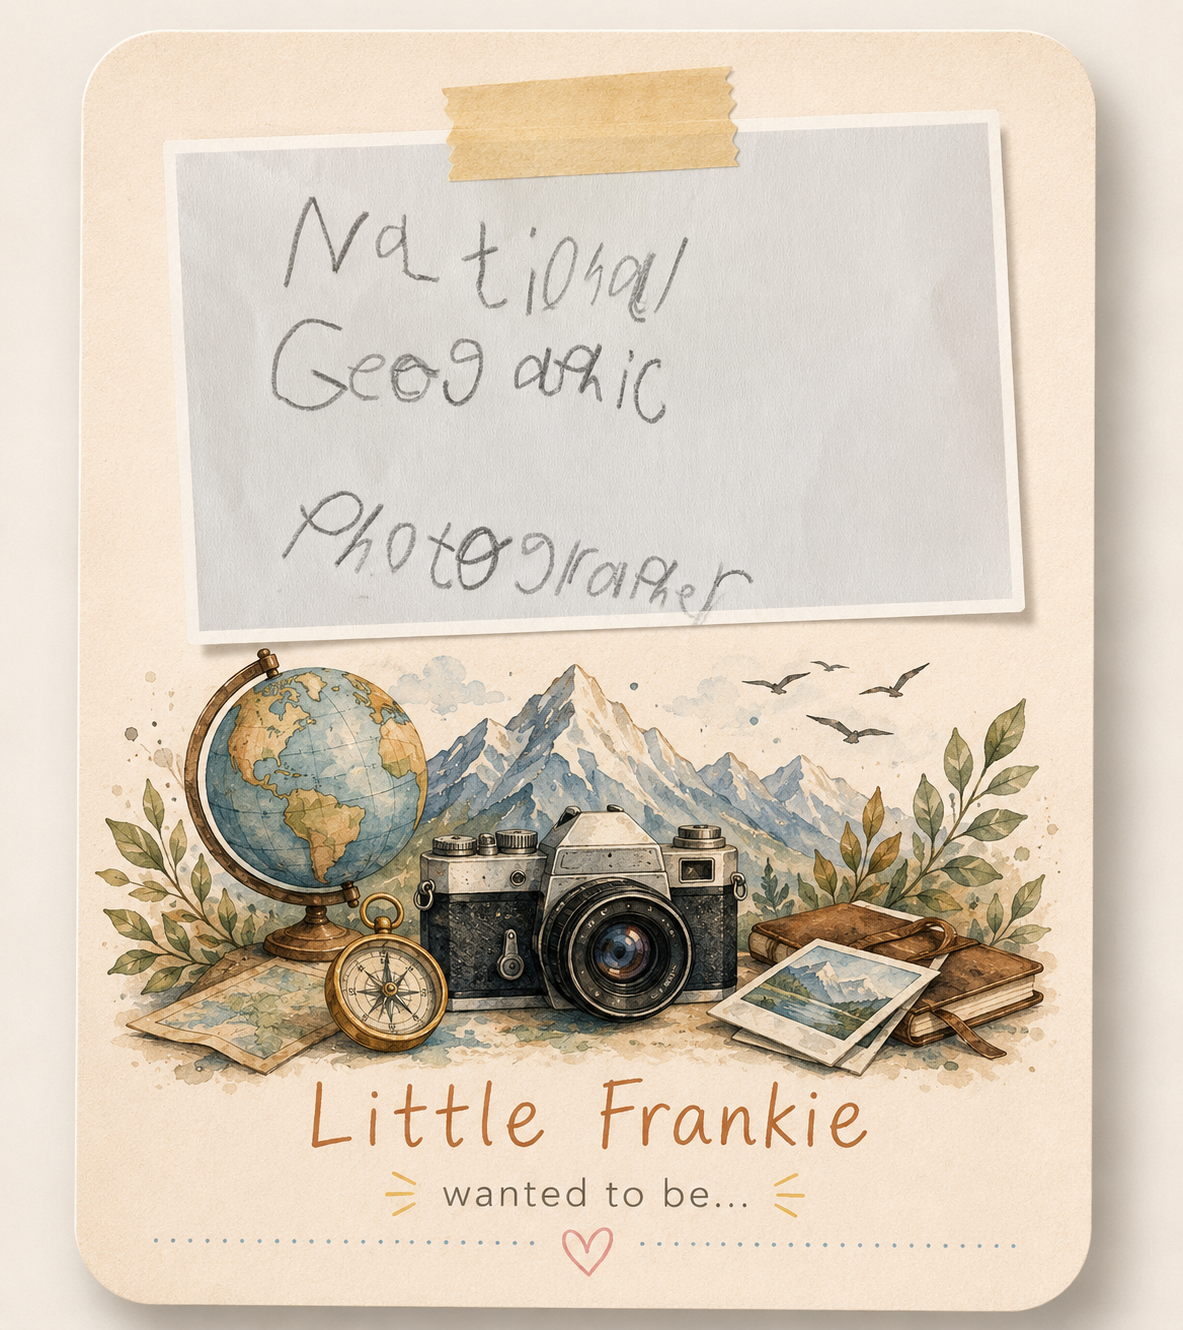
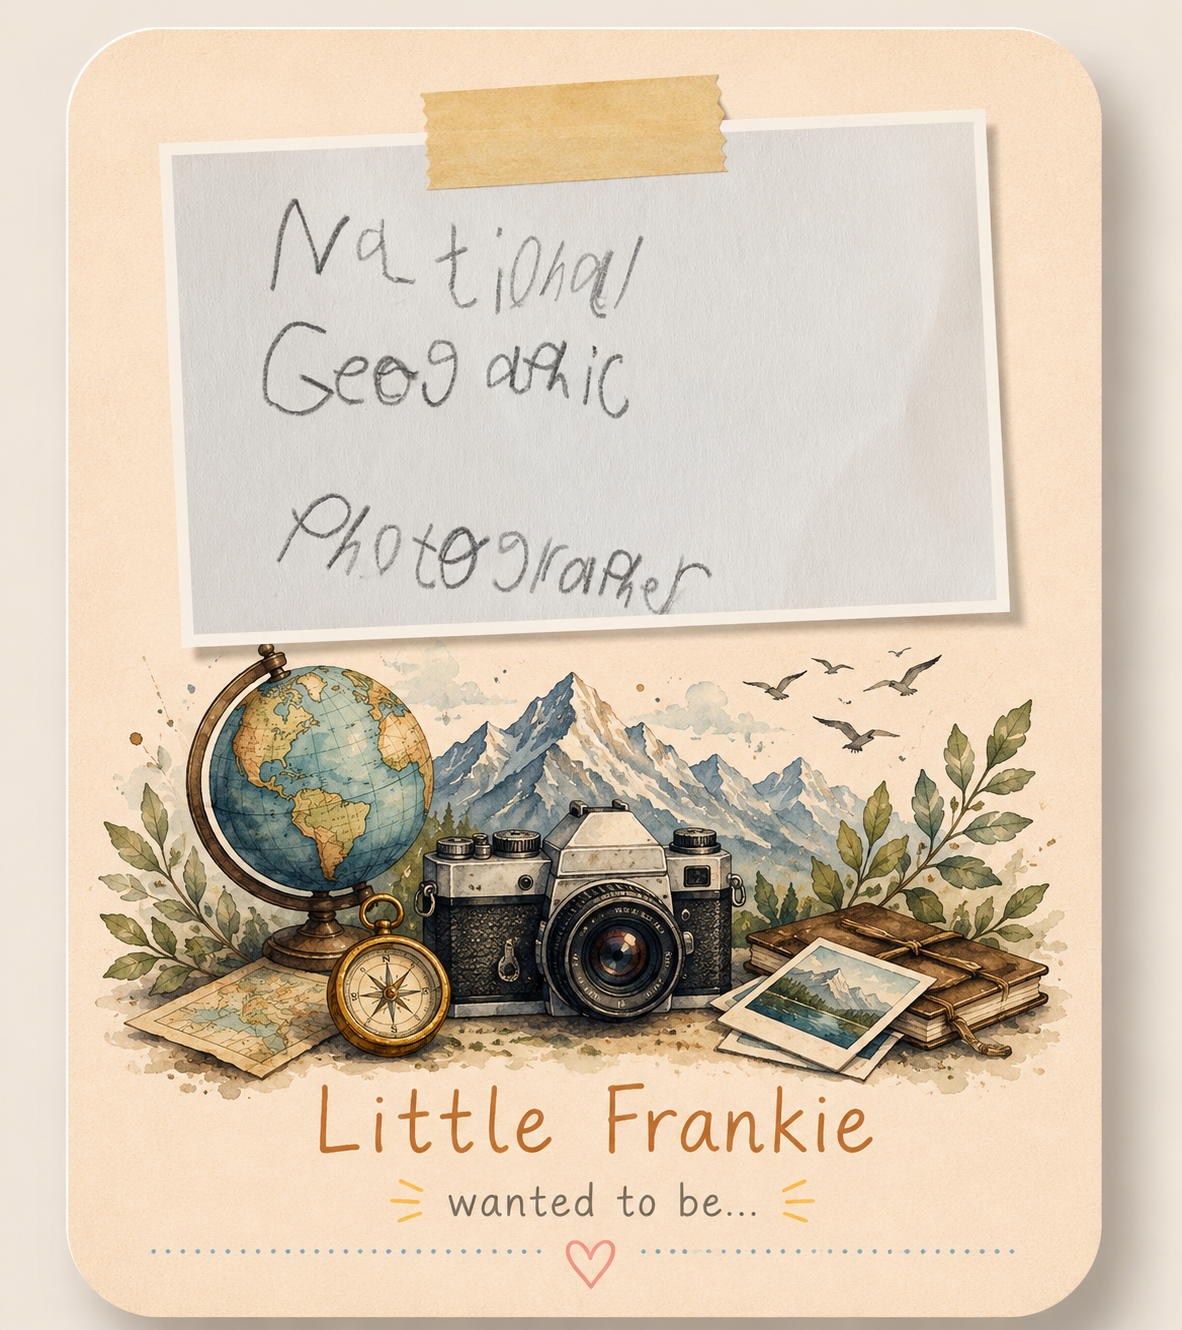
fix(scrapbook): uniform card styling with consistent aspect ratio and no height:auto override

diff --git a/src/components/story/FrankieStory.jsx b/src/components/story/FrankieStory.jsx
@@ -52,6 +52,7 @@ function NarrativeBlock({ block, index }) {
 
 /**
  * ScrapbookCard — tilted, playful image card for childhood dreams
+ * Shows each illustration at its natural proportions (no forced cropping).
  */
 function ScrapbookCard({ image, dream, index }) {
   const ref = useRef(null)
@@ -62,7 +63,7 @@ function ScrapbookCard({ image, dream, index }) {
   return (
     <motion.div
       ref={ref}
-      className="rounded-xl overflow-hidden shadow-md cursor-default"
+      className="rounded-xl overflow-hidden shadow-[0_4px_12px_rgba(0,0,0,0.08)] cursor-default bg-[#FDF5ED]"
       style={{
         transform: `rotate(${rotation}deg)`,
       }}
@@ -71,12 +72,14 @@ function ScrapbookCard({ image, dream, index }) {
       transition={{ duration: 0.7, delay: index * 0.08, ease: [0.22, 1, 0.36, 1] }}
       whileHover={{ rotate: 0, scale: 1.05, transition: { duration: 0.3 } }}
     >
-      <img
-        src={image}
-        alt={`Little Frankie wanted to be a ${dream}`}
-        className="w-full h-auto block"
-        loading="lazy"
-      />
+      <div className="aspect-[100/114] w-full">
+        <img
+          src={image}
+          alt={`Little Frankie wanted to be a ${dream}`}
+          className="w-full h-full object-cover block"
+          loading="lazy"
+        />
+      </div>
     </motion.div>
   )
 }

diff --git a/src/styles/globals.css b/src/styles/globals.css
@@ -133,7 +133,6 @@ body {
 
 img {
   max-width: 100%;
-  height: auto;
   display: block;
 }
 
